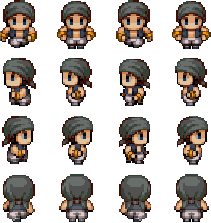
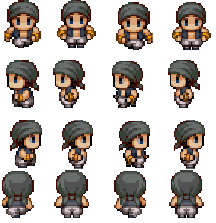
:hammer: Fix sprites and positions

diff --git a/assets/js/all.min.js b/assets/js/all.min.js
@@ -12,7 +12,7 @@ class Bomb {
     launchBomb() {
         this.div = document.createElement('div');
         this.div.classList.add('bomb');
-        this.div.style.top = (this.posY - 10)+ "px"; // + 25 to place the bomb at his feet
+        this.div.style.top = (this.posY - 16)+ "px"; // + 25 to place the bomb at his feet
         this.div.style.left = this.posX + "px"; // + 15 to center the bomb on the player
 
         let mapDiv = document.querySelector('.map');        
@@ -420,7 +420,7 @@ class Player {
     this.playerPosY = playerPosY; 
     this.movement = new Array(); 
     this.direction = 0;
-    this.speed = 8; 
+    this.speed = 1; 
     this.bombDelay = 2000;  
     this.bombKill = 1;
     this.enableBomb = 1;  //number of bomb you can launch  
@@ -456,47 +456,68 @@ class Player {
 
       if (this.direction == that.movement[0]) {
         //up
-        that.posX = Math.floor((that.playerPosX + 15) / 50); //
-        that.posY = Math.floor((that.playerPosY + 20) / 50); //
+        
+        // Change of sprite in function of the movement direction
+        that.div.classList.remove(that.sprite[1], that.sprite[2], that.sprite[3]);
+        that.div.classList.add(that.sprite[0]);
+        
+        // Tweak player position (hit box) - on x and y
+        that.posX = Math.floor((that.playerPosX + 20) / 50);
+        that.posY = Math.floor((that.playerPosY + 32) / 50);
+          
+        // Detection if the player can walk on the cell or not
         if ((map.cells[that.posY][that.posX].status === 'empty') || (map.cells[that.posY][that.posX].status === 'bonus') || (map.cells[that.posY][that.posX].status === 'dangerous')) {
+            
+            // Move the player of position
             that.playerPosY -= that.speed;
-            that.div.classList.remove(that.sprite[1], that.sprite[2], that.sprite[3]);
-            that.div.classList.add(that.sprite[0]);
-
-            pirate_player.bonusCheck(that.posX, that.posY);
+            
+            // if bonus on the cell --> apply the bonus to the player
+            that.bonusCheck(that.posX, that.posY);
         }
       } else if (this.direction == that.movement[1]) {
         //right
-        that.posX = Math.floor((that.playerPosX + 45) / 50); //
-        that.posY = Math.floor((that.playerPosY + 40) / 50); //
+        
+        that.div.classList.remove(that.sprite[0], that.sprite[2], that.sprite[3]);
+        that.div.classList.add(that.sprite[1]);  
+          
+        that.posX = Math.floor((that.playerPosX + 38) / 50);
+        that.posY = Math.floor((that.playerPosY + 45) / 50);
+        
         if ((map.cells[that.posY][that.posX].status === 'empty') || (map.cells[that.posY][that.posX].status === 'bonus') || (map.cells[that.posY][that.posX].status === 'dangerous')) {
+            
             that.playerPosX += that.speed;
-            that.div.classList.remove(that.sprite[0], that.sprite[2], that.sprite[3]);
-            that.div.classList.add(that.sprite[1]);
-
-            pirate_player.bonusCheck(that.posX, that.posY);
+            
+            that.bonusCheck(that.posX, that.posY);
         }
       } else if (this.direction == that.movement[2]) {
         //down
-        that.posX = Math.floor((that.playerPosX + 15) / 50); //
-        that.posY = Math.floor((that.playerPosY + 52) / 50); //
+          
+        that.div.classList.remove(that.sprite[1], that.sprite[0], that.sprite[3]);
+        that.div.classList.add(that.sprite[2]);  
+          
+        that.posX = Math.floor((that.playerPosX + 22) / 50);
+        that.posY = Math.floor((that.playerPosY + 55) / 50);
+          
         if ((map.cells[that.posY][that.posX].status === 'empty') || (map.cells[that.posY][that.posX].status === 'bonus') || (map.cells[that.posY][that.posX].status === 'dangerous')) {
+            
             that.playerPosY += that.speed;
-            that.div.classList.remove(that.sprite[1], that.sprite[0], that.sprite[3]);
-            that.div.classList.add(that.sprite[2]);
 
-            pirate_player.bonusCheck(that.posX, that.posY);
+            that.bonusCheck(that.posX, that.posY);
         }
       } else if (this.direction == that.movement[3]) {
         //left
-        that.posX = Math.floor((that.playerPosX - 5) / 50); //
-        that.posY = Math.floor((that.playerPosY + 42) / 50); //
+        
+        that.div.classList.remove(that.sprite[1], that.sprite[2], that.sprite[0]);
+        that.div.classList.add(that.sprite[3]);
+        
+        that.posX = Math.floor((that.playerPosX + 7) / 50);
+        that.posY = Math.floor((that.playerPosY + 45) / 50);
+          
         if ((map.cells[that.posY][that.posX].status === 'empty') || (map.cells[that.posY][that.posX].status === 'bonus') || (map.cells[that.posY][that.posX].status === 'dangerous')) {
+            
             that.playerPosX -= that.speed;
-            that.div.classList.remove(that.sprite[1], that.sprite[2], that.sprite[0]);
-            that.div.classList.add(that.sprite[3]);
-
-            pirate_player.bonusCheck(that.posX, that.posY);
+            
+            that.bonusCheck(that.posX, that.posY);
         }
       } else if (this.direction == that.movement[4] && that.enableBomb > 0) {
         that.createBomb();
@@ -516,7 +537,7 @@ class Player {
       
       // power-bomb
       else if (map.cells[posY][posX].bonus == map.bonusTypes[1])
-        this.bombKill++;
+          this.bombKill++;
         
       // add-bomb
       else if (map.cells[posY][posX].bonus == map.bonusTypes[2])
@@ -531,7 +552,19 @@ class Player {
 
   createBomb() {
     this.enableBomb -= 1;
-    let bomb = new Bomb(this.bombKill, this.playerPosX + 15, this.playerPosY + 35, this.bombDelay, this);
+    
+    let bombPositionUpDown = 45, // Down
+        bombPositionLeftRight = 25; // Right
+    
+    if (this.direction == this.movement[0]) // Up
+        bombPositionUpDown = 60;
+    
+    else if (this.direction == this.movement[3]) // Left
+        bombPositionLeftRight = 25;
+      
+    let bomb = new Bomb(this.bombKill, this.playerPosX + bombPositionLeftRight, this.playerPosY + bombPositionUpDown, this.bombDelay, this);
+      
+      
     bomb.launchBomb();
     setTimeout(function() { // delay until the player can launch a bomb again
       pirate_player.enableBomb += 1;

diff --git a/assets/js/player.js b/assets/js/player.js
@@ -6,7 +6,7 @@ class Player {
     this.playerPosY = playerPosY; 
     this.movement = new Array(); 
     this.direction = 0;
-    this.speed = 8; 
+    this.speed = 1; 
     this.bombDelay = 2000;  
     this.bombKill = 1;
     this.enableBomb = 1;  //number of bomb you can launch  
@@ -42,47 +42,68 @@ class Player {
 
       if (this.direction == that.movement[0]) {
         //up
-        that.posX = Math.floor((that.playerPosX + 15) / 50); //
-        that.posY = Math.floor((that.playerPosY + 20) / 50); //
+        
+        // Change of sprite in function of the movement direction
+        that.div.classList.remove(that.sprite[1], that.sprite[2], that.sprite[3]);
+        that.div.classList.add(that.sprite[0]);
+        
+        // Tweak player position (hit box) - on x and y
+        that.posX = Math.floor((that.playerPosX + 20) / 50);
+        that.posY = Math.floor((that.playerPosY + 32) / 50);
+          
+        // Detection if the player can walk on the cell or not
         if ((map.cells[that.posY][that.posX].status === 'empty') || (map.cells[that.posY][that.posX].status === 'bonus') || (map.cells[that.posY][that.posX].status === 'dangerous')) {
+            
+            // Move the player of position
             that.playerPosY -= that.speed;
-            that.div.classList.remove(that.sprite[1], that.sprite[2], that.sprite[3]);
-            that.div.classList.add(that.sprite[0]);
-
-            pirate_player.bonusCheck(that.posX, that.posY);
+            
+            // if bonus on the cell --> apply the bonus to the player
+            that.bonusCheck(that.posX, that.posY);
         }
       } else if (this.direction == that.movement[1]) {
         //right
-        that.posX = Math.floor((that.playerPosX + 45) / 50); //
-        that.posY = Math.floor((that.playerPosY + 40) / 50); //
+        
+        that.div.classList.remove(that.sprite[0], that.sprite[2], that.sprite[3]);
+        that.div.classList.add(that.sprite[1]);  
+          
+        that.posX = Math.floor((that.playerPosX + 38) / 50);
+        that.posY = Math.floor((that.playerPosY + 45) / 50);
+        
         if ((map.cells[that.posY][that.posX].status === 'empty') || (map.cells[that.posY][that.posX].status === 'bonus') || (map.cells[that.posY][that.posX].status === 'dangerous')) {
+            
             that.playerPosX += that.speed;
-            that.div.classList.remove(that.sprite[0], that.sprite[2], that.sprite[3]);
-            that.div.classList.add(that.sprite[1]);
-
-            pirate_player.bonusCheck(that.posX, that.posY);
+            
+            that.bonusCheck(that.posX, that.posY);
         }
       } else if (this.direction == that.movement[2]) {
         //down
-        that.posX = Math.floor((that.playerPosX + 15) / 50); //
-        that.posY = Math.floor((that.playerPosY + 52) / 50); //
+          
+        that.div.classList.remove(that.sprite[1], that.sprite[0], that.sprite[3]);
+        that.div.classList.add(that.sprite[2]);  
+          
+        that.posX = Math.floor((that.playerPosX + 22) / 50);
+        that.posY = Math.floor((that.playerPosY + 55) / 50);
+          
         if ((map.cells[that.posY][that.posX].status === 'empty') || (map.cells[that.posY][that.posX].status === 'bonus') || (map.cells[that.posY][that.posX].status === 'dangerous')) {
+            
             that.playerPosY += that.speed;
-            that.div.classList.remove(that.sprite[1], that.sprite[0], that.sprite[3]);
-            that.div.classList.add(that.sprite[2]);
 
-            pirate_player.bonusCheck(that.posX, that.posY);
+            that.bonusCheck(that.posX, that.posY);
         }
       } else if (this.direction == that.movement[3]) {
         //left
-        that.posX = Math.floor((that.playerPosX - 5) / 50); //
-        that.posY = Math.floor((that.playerPosY + 42) / 50); //
+        
+        that.div.classList.remove(that.sprite[1], that.sprite[2], that.sprite[0]);
+        that.div.classList.add(that.sprite[3]);
+        
+        that.posX = Math.floor((that.playerPosX + 7) / 50);
+        that.posY = Math.floor((that.playerPosY + 45) / 50);
+          
         if ((map.cells[that.posY][that.posX].status === 'empty') || (map.cells[that.posY][that.posX].status === 'bonus') || (map.cells[that.posY][that.posX].status === 'dangerous')) {
+            
             that.playerPosX -= that.speed;
-            that.div.classList.remove(that.sprite[1], that.sprite[2], that.sprite[0]);
-            that.div.classList.add(that.sprite[3]);
-
-            pirate_player.bonusCheck(that.posX, that.posY);
+            
+            that.bonusCheck(that.posX, that.posY);
         }
       } else if (this.direction == that.movement[4] && that.enableBomb > 0) {
         that.createBomb();
@@ -102,7 +123,7 @@ class Player {
       
       // power-bomb
       else if (map.cells[posY][posX].bonus == map.bonusTypes[1])
-        this.bombKill++;
+          this.bombKill++;
         
       // add-bomb
       else if (map.cells[posY][posX].bonus == map.bonusTypes[2])
@@ -117,7 +138,19 @@ class Player {
 
   createBomb() {
     this.enableBomb -= 1;
-    let bomb = new Bomb(this.bombKill, this.playerPosX + 15, this.playerPosY + 35, this.bombDelay, this);
+    
+    let bombPositionUpDown = 45, // Down
+        bombPositionLeftRight = 25; // Right
+    
+    if (this.direction == this.movement[0]) // Up
+        bombPositionUpDown = 60;
+    
+    else if (this.direction == this.movement[3]) // Left
+        bombPositionLeftRight = 25;
+      
+    let bomb = new Bomb(this.bombKill, this.playerPosX + bombPositionLeftRight, this.playerPosY + bombPositionUpDown, this.bombDelay, this);
+      
+      
     bomb.launchBomb();
     setTimeout(function() { // delay until the player can launch a bomb again
       pirate_player.enableBomb += 1;

diff --git a/assets/css/main.css b/assets/css/main.css
@@ -25,8 +25,10 @@ body {
     background-color: yellow; }
   .map .bonus {
     background-color: #00ff1d; }
-  .map .bonus.add-bomb {
+  .map .bonus.power-bomb {
     background-color: #358b3f; }
+  .map .bonus.add-bomb {
+    background-color: #8ac691; }
   .map .dangerous {
     background-color: orange; }
 
@@ -70,9 +72,9 @@ body {
 
 @keyframes left {
   from {
-    background-position: 0px -60px; }
+    background-position: 0px -57px; }
   to {
-    background-position: 221px -60px; } }
+    background-position: 221px -57px; } }
 
 .avatar_right {
   position: absolute;
@@ -84,9 +86,9 @@ body {
 
 @keyframes right {
   from {
-    background-position: 0px -120px; }
+    background-position: 0px -118px; }
   to {
-    background-position: -221px -120px; } }
+    background-position: -221px -118px; } }
 
 .avatar_up {
   position: absolute;
@@ -99,6 +101,6 @@ body {
 
 @keyframes up {
   from {
-    background-position: 0px -180px; }
+    background-position: 0px -170px; }
   to {
-    background-position: -221px -180px; } }
+    background-position: -221px -170px; } }

diff --git a/assets/sass/_player.scss b/assets/sass/_player.scss
@@ -25,8 +25,8 @@ $bomberman-height: 50px;
 }
 
 @keyframes left {
-  from { background-position: 0px -60px; }
-  to { background-position: 221px -60px; }
+  from { background-position: 0px -57px; }
+  to { background-position: 221px -57px; }
 }
 
 .avatar_right {
@@ -39,8 +39,8 @@ $bomberman-height: 50px;
 }
 
 @keyframes right {
-  from { background-position: 0px -120px; }
-  to { background-position: -221px -120px; }
+  from { background-position: 0px -118px; }
+  to { background-position: -221px -118px; }
 }
 
 .avatar_up {
@@ -54,6 +54,6 @@ $bomberman-height: 50px;
 }
 
 @keyframes up {
-  from { background-position: 0px -180px; }
-  to { background-position: -221px -180px; }
+  from { background-position: 0px -170px; }
+  to { background-position: -221px -170px; }
 }

diff --git a/assets/js/bomb.js b/assets/js/bomb.js
@@ -12,7 +12,7 @@ class Bomb {
     launchBomb() {
         this.div = document.createElement('div');
         this.div.classList.add('bomb');
-        this.div.style.top = (this.posY - 10)+ "px"; // + 25 to place the bomb at his feet
+        this.div.style.top = (this.posY - 16)+ "px"; // + 25 to place the bomb at his feet
         this.div.style.left = this.posX + "px"; // + 15 to center the bomb on the player
 
         let mapDiv = document.querySelector('.map');        

diff --git a/assets/sass/_map.scss b/assets/sass/_map.scss
@@ -36,8 +36,12 @@ $cell-height: 50px;
         background-color: #00ff1d;
     }
     
-    .bonus.add-bomb {
+    .bonus.power-bomb {
         background-color: #358b3f;
+    }
+    
+    .bonus.add-bomb {
+        background-color: #8ac691;
     }
 
     .dangerous {
